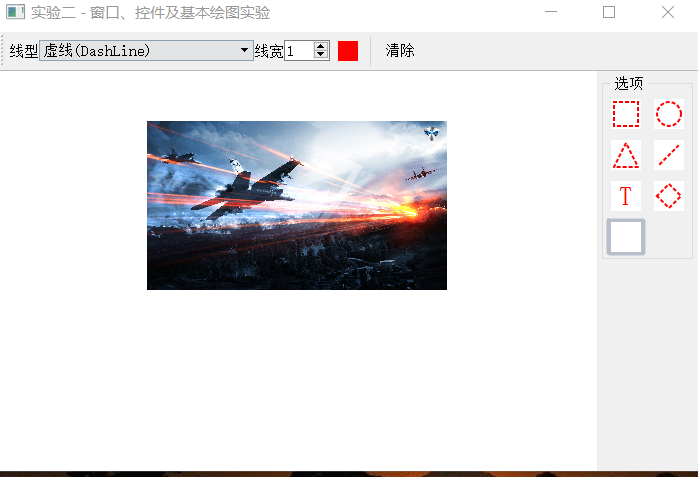
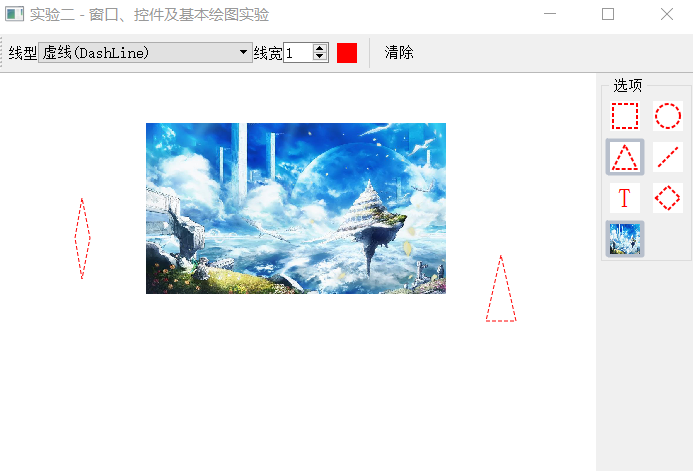
添加注释

diff --git a/lab02/centerframe.cpp b/lab02/centerframe.cpp
@@ -115,23 +115,23 @@
              this,&CenterFrame::on_btnTextClicked);
 
      //菱形按钮
-     btnDiamond = new QPushButton(group);
-     btnDiamond->setToolTip("绘制菱形");
-     btnDiamond->setCheckable(true);
-     btnDiamond->setIconSize(p.size());
+     btnDiamond = new QPushButton(group);                  //父对象为QGroupBox组框
+     btnDiamond->setToolTip("绘制菱形");                    //设置工具提示
+     btnDiamond->setCheckable(true);                       //使能可选中功能
+     btnDiamond->setIconSize(p.size());                    //设置按钮图标的大小
 
      p.fill(BACKGROUND_COLOR);
     //菱形的四个顶点
-     QPointF apt1(3,p.size().height()/2);
-     QPointF apt2(p.size().width()/2,p.size().height()-3);
-     QPointF apt3(p.size().width()-3,p.size().height()/2);
-     QPointF apt4(p.size().width()/2,3);
+     QPointF apt1(3,p.size().height()/2);                  //zuobian
+     QPointF apt2(p.size().width()/2,p.size().height()-3); //zhongjianxiamian
+     QPointF apt3(p.size().width()-3,p.size().height()/2); //youbian
+     QPointF apt4(p.size().width()/2,3);                   //zhongjianshangmian
      QVector<QPointF> apts0;
      apts0<<apt1<<apt2<<apt2<<apt3<<apt3<<apt4<<apt4<<apt1;
 
      painter.drawLines(apts0);
-     btnDiamond->setIcon (QIcon(p));
-     connect(btnDiamond,&QPushButton::clicked,
+     btnDiamond->setIcon (QIcon(p));                       //设置按钮图标
+     connect(btnDiamond,&QPushButton::clicked,             //连接信号和槽，按钮被点击后执行相应函数
              this,&CenterFrame::on_btnDiamondClicked);
 
      //绘图按钮
@@ -141,7 +141,7 @@
      btnPhoto ->setIconSize(p.size());
 
      p.fill(BACKGROUND_COLOR);
-     QImage graph(":/icon-xxdpi/user");
+     QImage graph("D:/pic");
      QRect graphy(0,0,p.size().width(),p.size().height());
      QRect gra =graph.rect();
 
@@ -157,8 +157,8 @@
      gridLayout->addWidget(btnTriangle,1,0);
      gridLayout->addWidget(btnLine,1,1);
      gridLayout->addWidget(btnText,2,0);
-     gridLayout->addWidget(btnDiamond,2,1);
-     gridLayout->addWidget(btnPhoto,3,0);
+     gridLayout->addWidget(btnDiamond,2,1);         //第三行第二列
+     gridLayout->addWidget(btnPhoto,3,0);           //第四行的一列
      gridLayout->setMargin(3);
      gridLayout->setSpacing(3);
      group->setLayout(gridLayout);

diff --git a/lab02/drawwidget.cpp b/lab02/drawwidget.cpp
@@ -194,20 +194,20 @@
  }
 
  void DrawWidget::drawpho()
- {
-     QImage graph;
-     QString open;
-     open=QFileDialog::getOpenFileName(this,tr("选择图像"),"",tr("Images (*.png *.bmp *.jpg)"));
-     graph.load(open);
-     QPixmap *newPix = new QPixmap(size());
-     *newPix=QPixmap(*this->pix);
-     *pix = QPixmap::fromImage(graph.scaledToWidth(pix->size().width()*0.5, Qt::FastTransformation));
-     QPainter g(newPix);
-     g.drawPixmap (QPoint((width()-pix->width())/2,(height()-pix->width())/2), *pix);
-     delete pix;
-     pix = newPix;
-     update();
- }
+  {
+      QImage graph;
+      QString open;
+      open=QFileDialog::getOpenFileName(this,tr("选择图像"),"",tr("Images (*.png *.bmp *.jpg)"));
+      graph.load(open);
+      QPixmap *newPix = new QPixmap(size());
+      *newPix=QPixmap(*this->pix);
+      *pix = QPixmap::fromImage(graph.scaledToWidth(pix->size().width()*0.5, Qt::FastTransformation));
+      QPainter g(newPix);
+      g.drawPixmap (QPoint((width()-pix->width())/2,(height()-pix->width())/2), *pix);
+      delete pix;
+      pix = newPix;
+      update();
+  }
 
 
  void DrawWidget::drawShape(const QPointF ptStart,const QPointF ptEnd,const ST::ShapeType drawType)
@@ -267,10 +267,10 @@
      }
          break;
      case ST::Diamond:{
-         QPoint point1((ptStart.x()+ptEnd.x())/2,ptStart.y());
-         QPoint point2(ptStart.x(),(ptStart.y()+ptEnd.y())/2);
-         QPoint point3(ptEnd.x(),(ptStart.y()+ptEnd.y())/2);
-         QPoint point4((ptStart.x()+ptEnd.x())/2,ptEnd.y());
+         QPoint point1((ptStart.x()+ptEnd.x())/2,ptStart.y());   //zhongjianshangmian
+         QPoint point2(ptStart.x(),(ptStart.y()+ptEnd.y())/2);   //zuobian
+         QPoint point3(ptEnd.x(),(ptStart.y()+ptEnd.y())/2);     //youbian
+         QPoint point4((ptStart.x()+ptEnd.x())/2,ptEnd.y());     //zhongjianxianmian
 
          QVector<QPointF> points;
          points<<point1<<point2<<point4<<point3;
